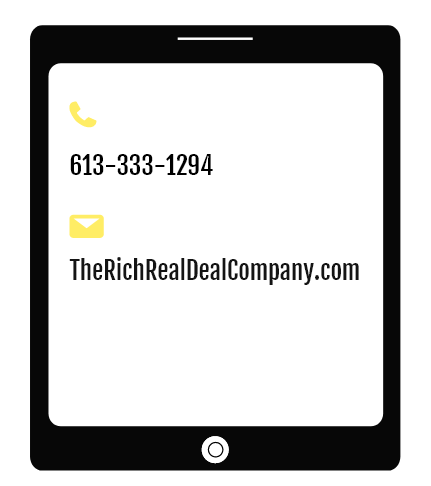
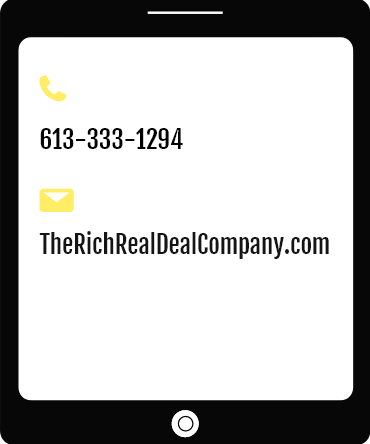
adding css

diff --git a/webportfolio/portfolio.html b/webportfolio/portfolio.html
@@ -112,6 +112,7 @@
         margin-left: 2rem;
       }
       .filter{
+        width: auto;
         display: flex;
         margin-right:17rem;
         float: right;
@@ -123,40 +124,61 @@
 
       .graphiccheckbox{
         margin-left:3rem;
+        margin-bottom:-3rem;
       }
 
       .Search{
-        margin-right:-5rem;
+        margin-top:0rem;
+        margin-right:-10em;
+        margin-left:3rem;
+       height:30px;
       }
 
-
-
-      .artpic1 {
-        width: auto;
-      }
 
       /* This is the tablet version of where some of the artwork will float beside each other */
+      .art{
+        
+      }
+      
+      .artwork1{
+        float: right;
+        margin-right: 2.5rem;
+     width: 96%;
+      }
 
+      .artwork2{
+        float: right;
+        margin-right: 2.5rem;
+     width: 96%;
+      }
 
       .card-text3 {
         margin-bottom: -4.2rem;
         padding-bottom: 7em;
       }
+.artwork3{
+margin-right:24rem;
+float: right;
+width: auto;
+}
+.artwork4{
+  float: right;
+  margin-right: 1rem;
+  margin-top: -35.9rem;
+}
+.artwork5{
+  display: block;
 
-      .artwork4 {
-        float: right;
-        margin-right: 12.3rem;
-        margin-top: -36.1rem;
-      }
 
+}
       .card5 {
         margin-bottom: -4rem;
       }
 
       .artwork6 {
         float: right;
-        margin-top: -35.9rem;
-        margin-right: 12.3rem;
+  margin-right: 1rem;
+  margin-top: -35.9rem;
       }
 
       .more {
@@ -166,7 +188,6 @@ margin-top: 3rem;
   margin-right: -26rem;
 
       }
-
     }
 
     @media screen and (min-width:1200px) {
@@ -178,9 +199,6 @@ margin-top: 3rem;
         margin-left: 2rem;
       }
 
-      .artwork1{
-     width: auto;
-      }
 
       .artwork4 {
         margin-right: 15.1rem;
@@ -251,8 +269,8 @@ margin-top: 3rem;
     <button class="Search" type="submit">Search</button>
   </section>
 
-  <section>
-    <div class="artwork1" style=" margin-bottom:2rem; margin-left:1.5rem;">
+  <section class="art">
+    <div class="artwork1" style="margin-bottom:2rem; margin-left:1.5rem;">
       <img class="artpic1" style="width:76%; margin-left:2.3rem; border: 1px solid;" src="images/landingpage.png"
         alt="Richard Nguyen">
       <div class="card card1"

diff --git a/webportfolio/about.html b/webportfolio/about.html
@@ -164,26 +164,29 @@
       /* Card Section */
 .cards{
   display: flex;
-  justify-content: space-between;
   height: auto;
-  margin-top:20rem;
-  margin-left:-24rem;
+  margin-left:22rem;
 }
 .mepic{
-  margin-top:3rem;
+  width:100px;
+  margin-top:17rem;
+  margin-left:-20rem;
+}
+.me{
+  margin-bottom:-32.8rem;
+  margin-left:-1rem; 
 }
 .facts{
-  margin-top:443rem;
-  margin-right: 2rem;
+  margin-right: -2rem;
+  padding-bottom: 2em;
   
 }
       .goal {
-        margin-top:443rem;
-        margin-right: 5rem;
+        margin-right: 0rem;
         
       }
 footer{
-  margin-top:4rem;
+  margin-top:9rem;
 }
     }
   </style>
@@ -237,14 +240,14 @@ footer{
     old who is in the second semester of the first year of this program. </p>
 
   <!-- This is a card that has a picture of me and my name -->
-<section class="cards">
+
   <div class="me">
     <img src="images/me.jpeg" style="width: 350px;  height:380px; margin-left:4rem; object-fit: cover;" class="mepic" alt="Richard Nguyen">
     <h2 class="RichN">Richard Nguyen</h2>
   </div>
 
 
-
+<section class="cards">
   <!-- Here is the 2 cards, one of them is facts about me and the other one is my goals -->
   
     <div class="facts" style=" width:350px; margin-left:4rem; margin-top:3rem; border: 1px solid; 

diff --git a/webportfolio/index.html b/webportfolio/index.html
@@ -8,6 +8,7 @@
   <meta name="viewport" content="width=device-width, initial-scale=1">
   <link rel="preconnect" href="https://fonts.gstatic.com">
 
+  <!-- The bootstrap is only used for the homepage, which is for the slide. -->
   <!-- Bootstrap CSS -->
   <link href="https://cdn.jsdelivr.net/npm/bootstrap@5.0.0-beta2/dist/css/bootstrap.min.css" rel="stylesheet"
     integrity="sha384-BmbxuPwQa2lc/FVzBcNJ7UAyJxM6wuqIj61tLrc4wSX0szH/Ev+nYRRuWlolflfl" crossorigin="anonymous">

diff --git a/webportfolio/contact.html b/webportfolio/contact.html
@@ -70,7 +70,7 @@
     input,
     textarea {
       padding: 1em;
-      width: 320px;
+      width: 300px;
       border: 2px solid #FFED65;
       border-radius: 25px;
     }
@@ -122,6 +122,7 @@
 
       .tablet {
         float: right;
+        margin-right: 2rem;;
 
       }
 
